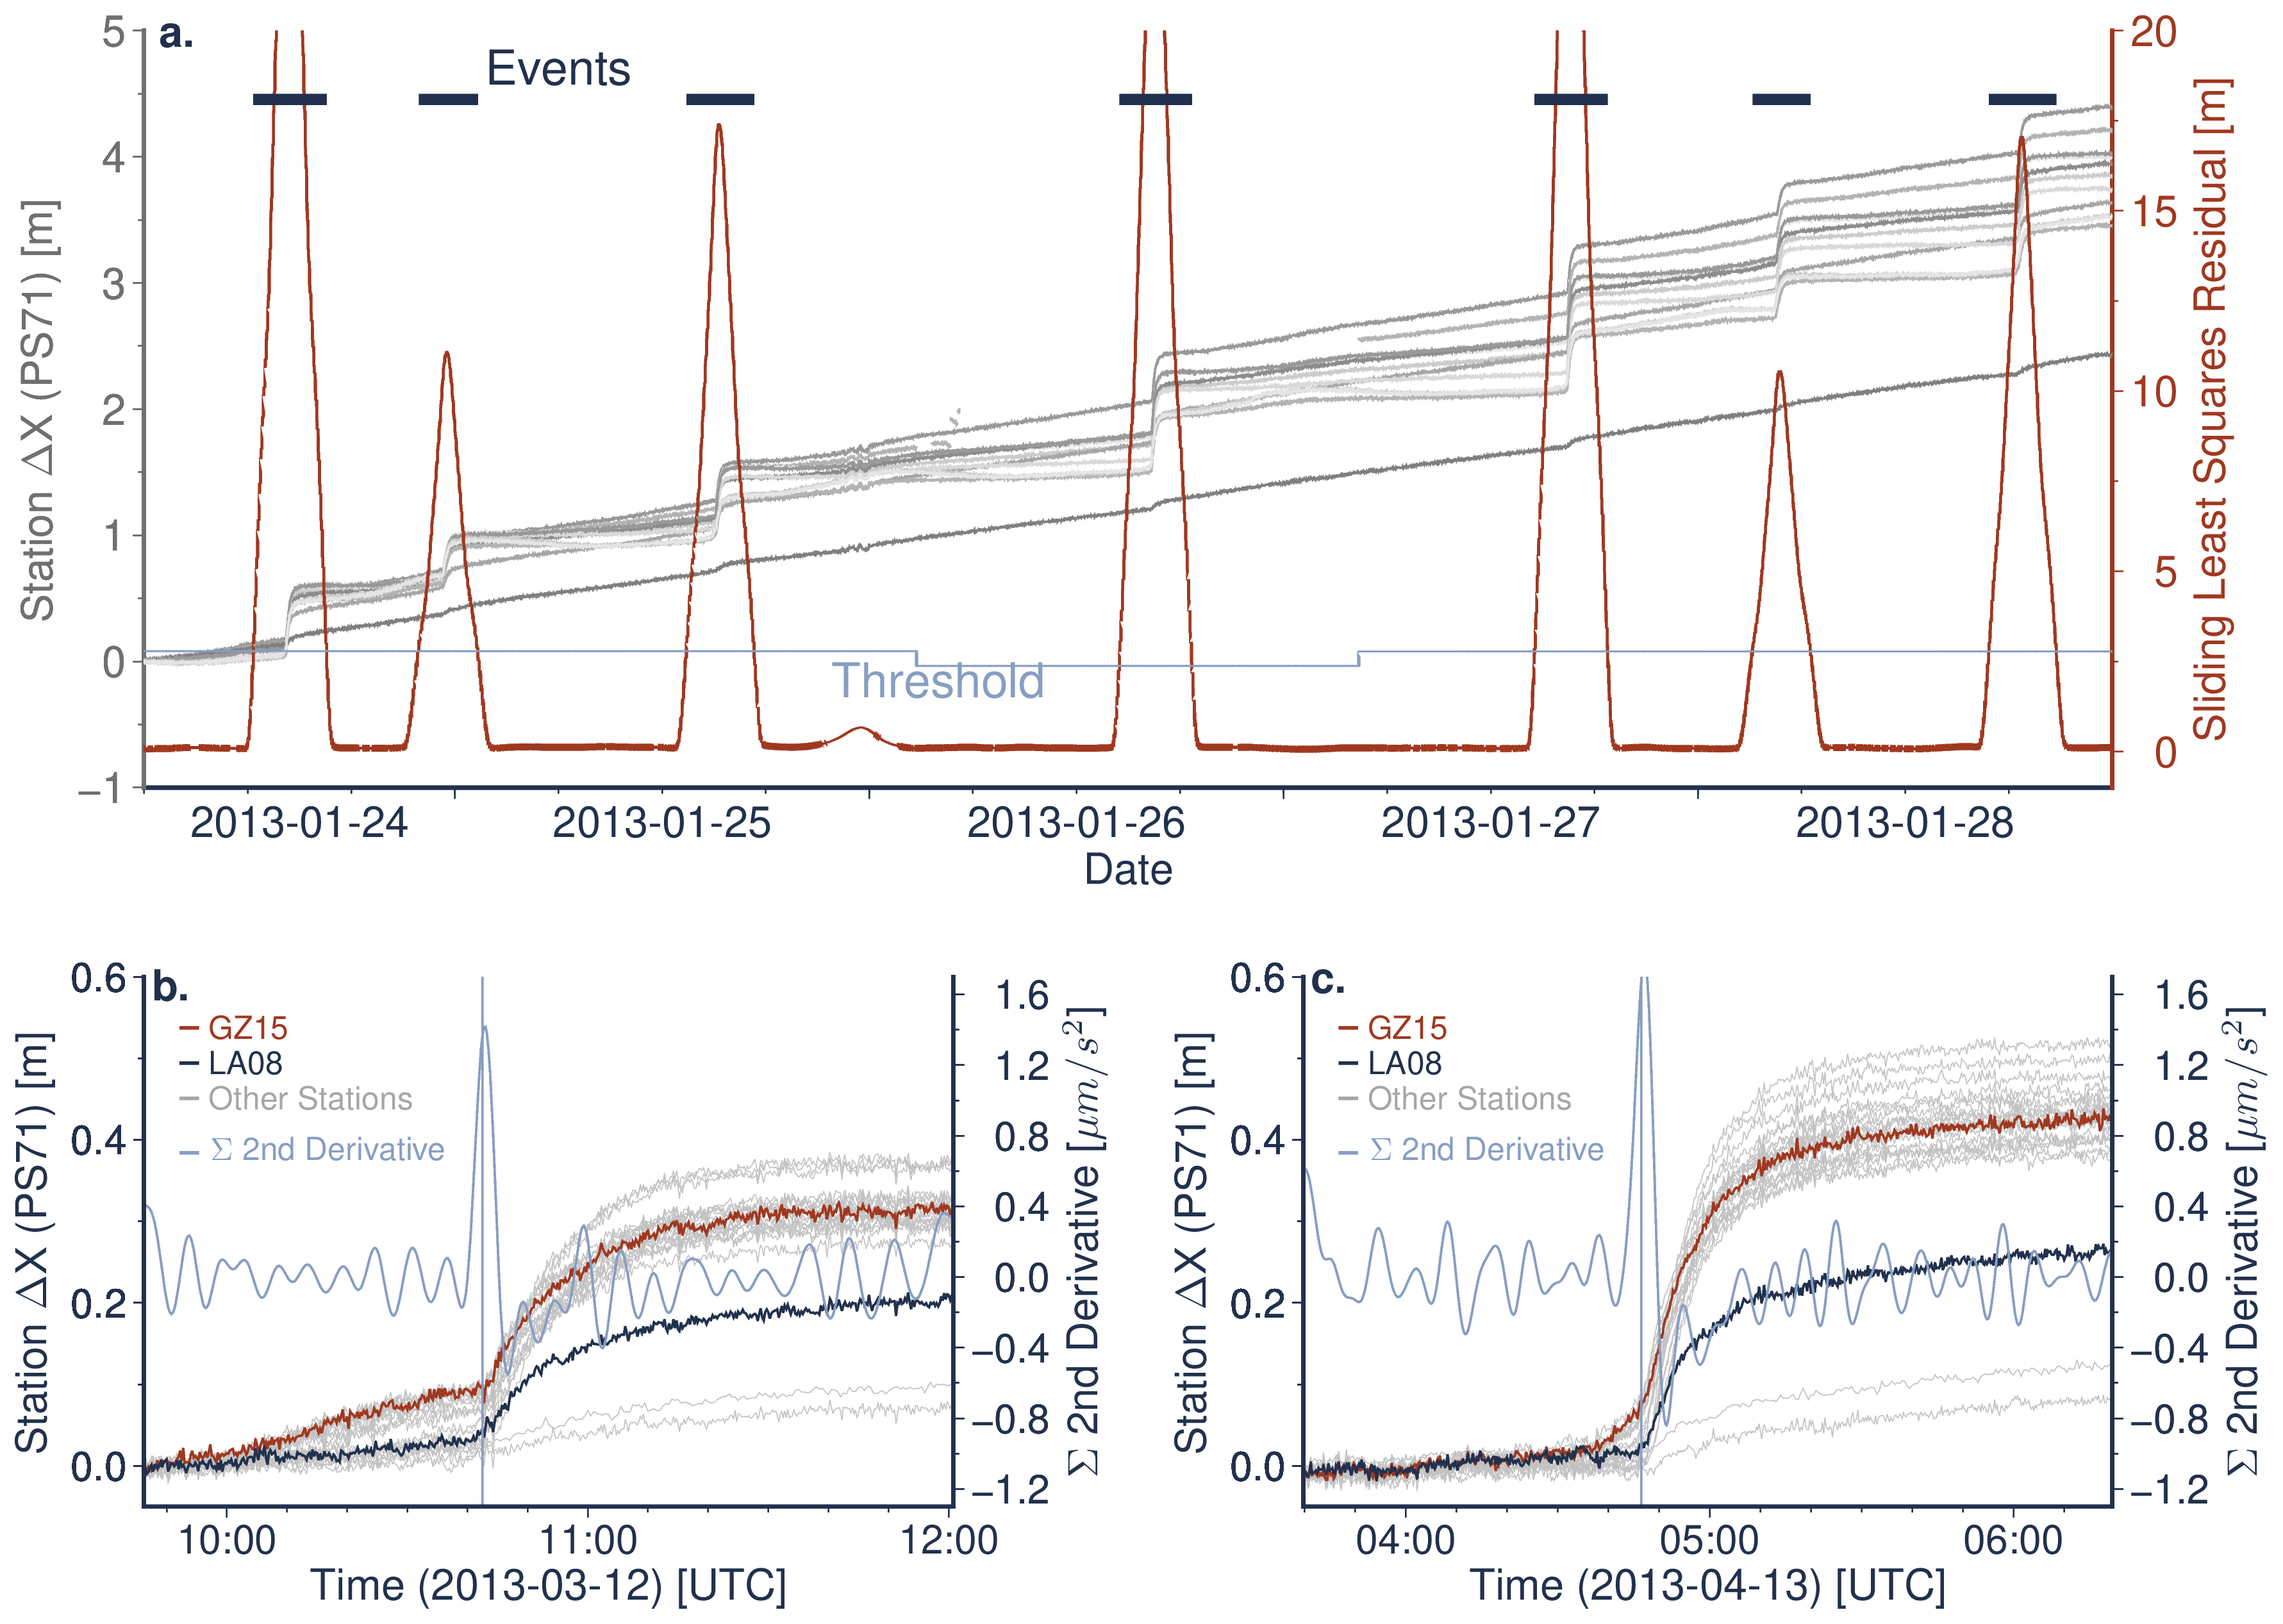
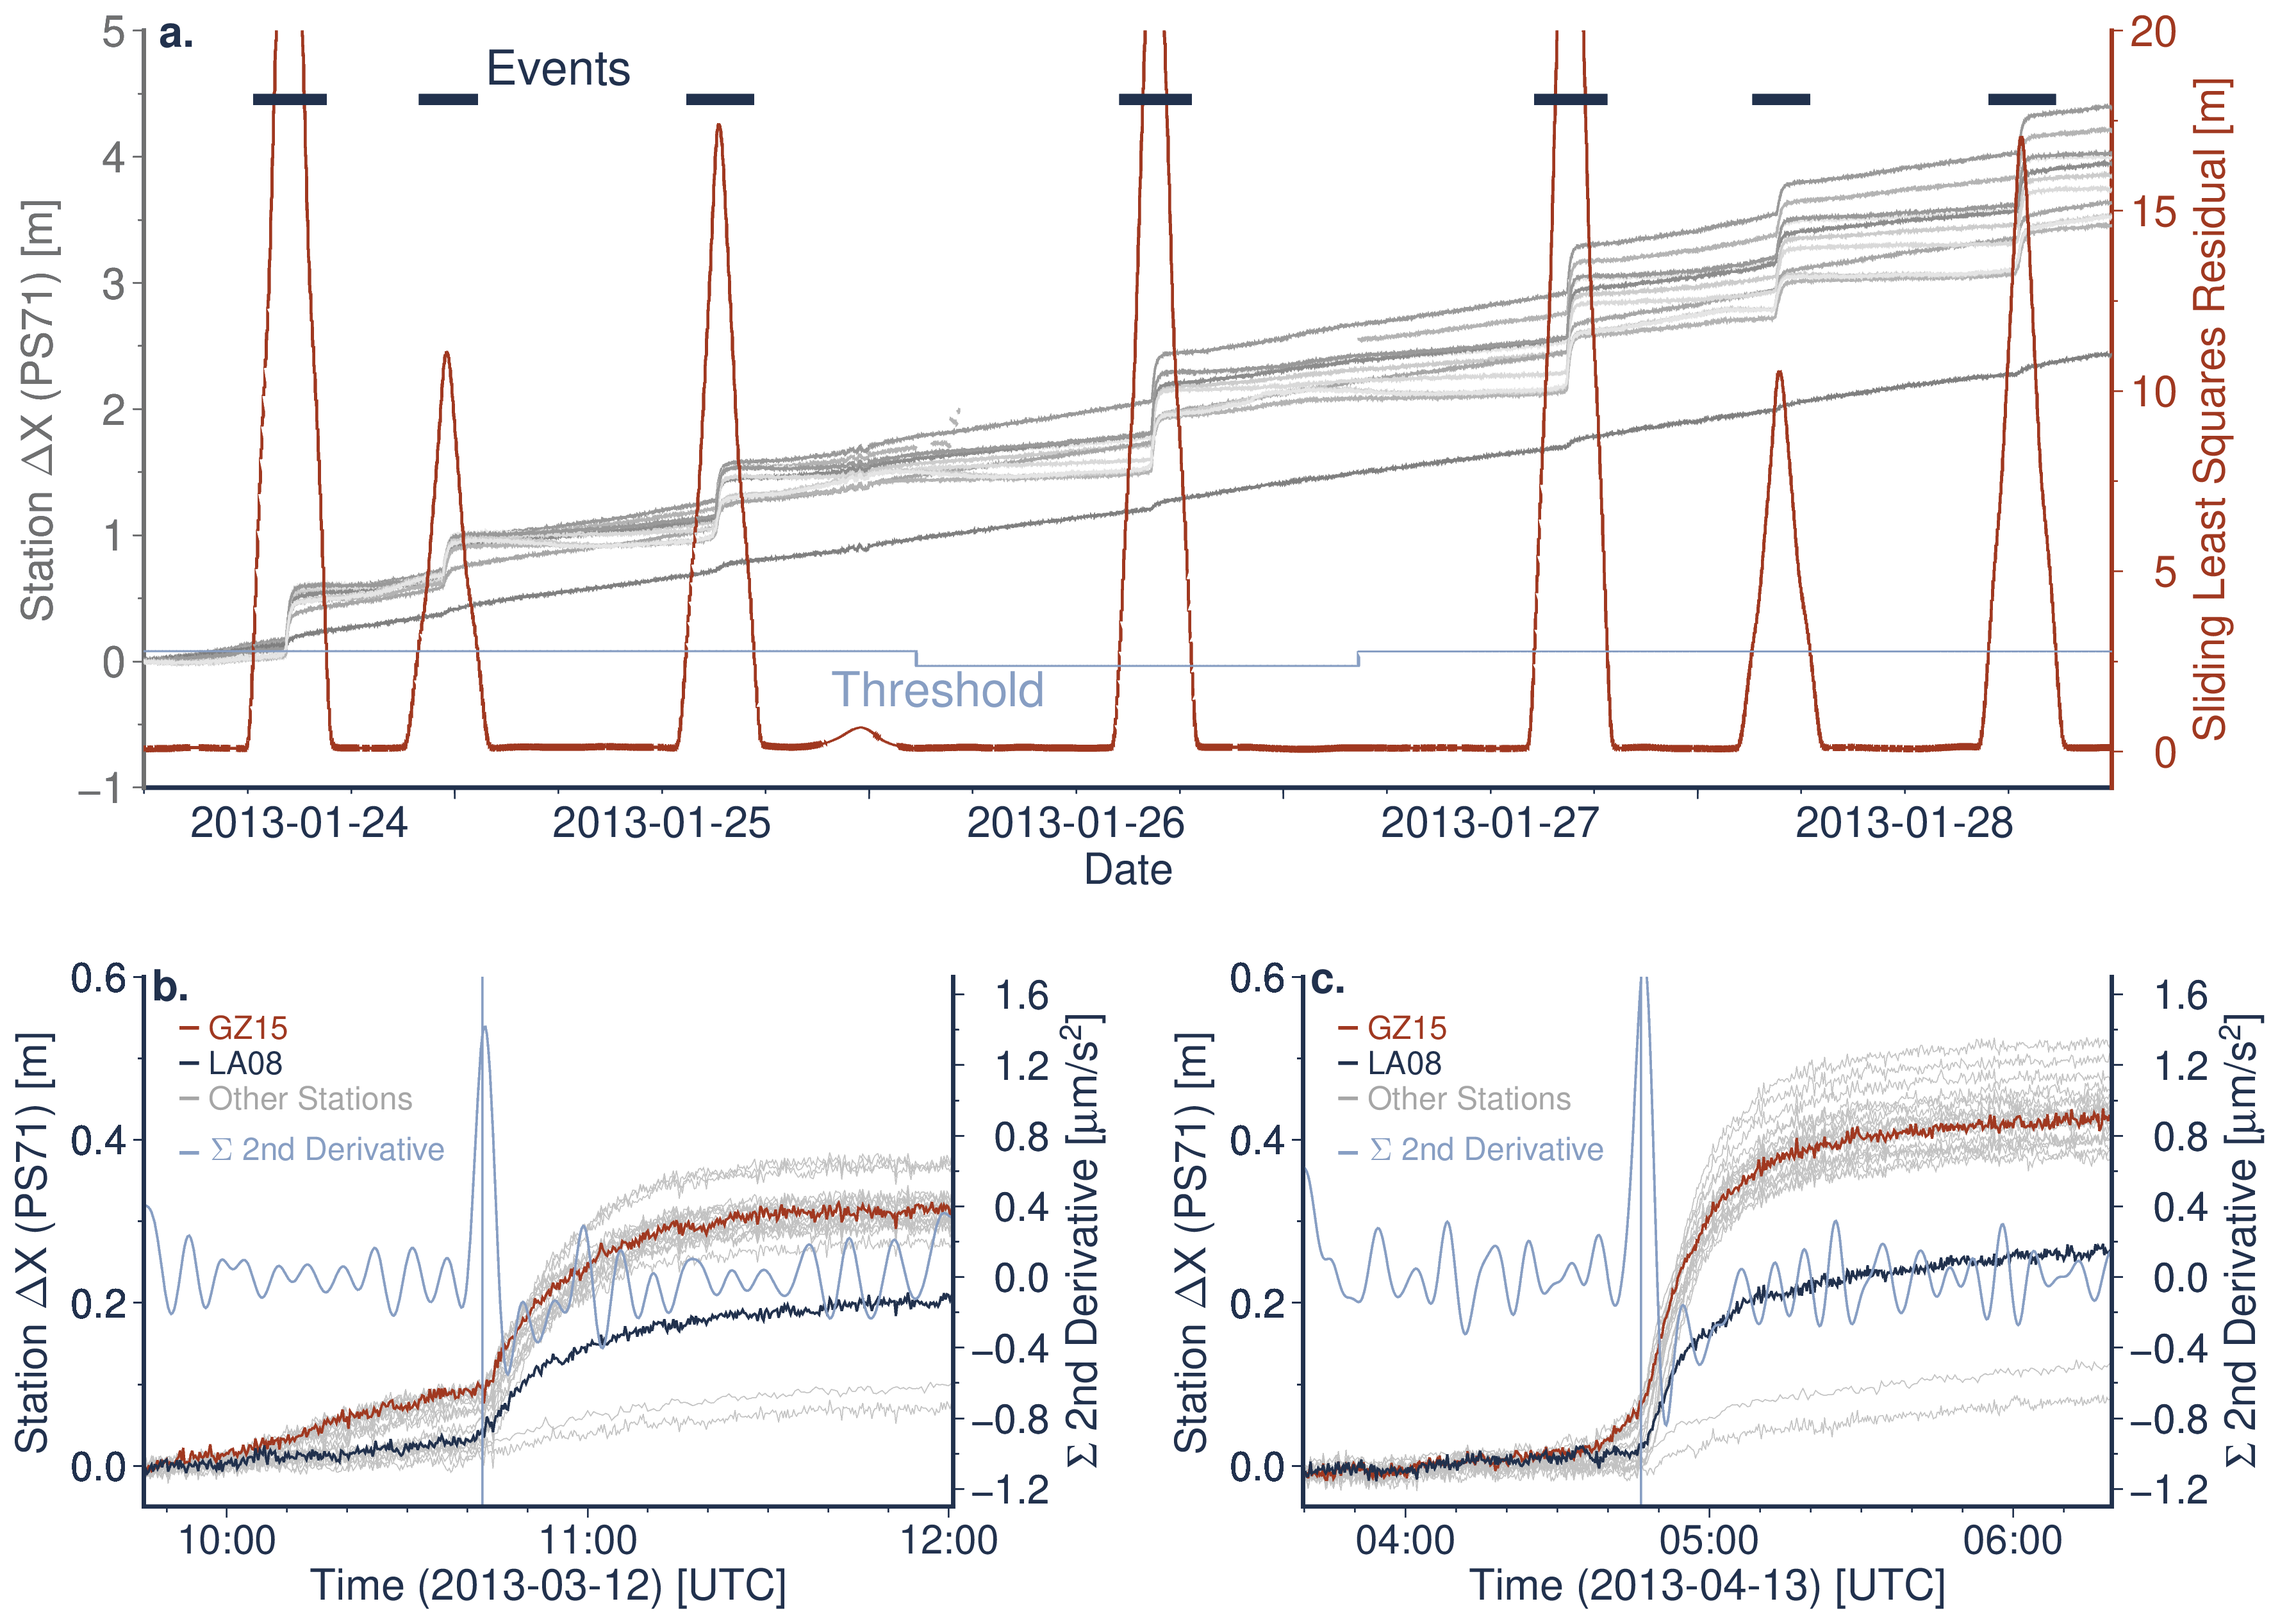
feat: Repositiory for published paper

diff --git a/README.md b/README.md
@@ -1,8 +1,7 @@
 # WhillansCatalogPaper
 
-Code used to process GNSS data and create figures in Katz, Siegfried, and Padman, 2025, currently in review. 
-> [!WARNING]  
-> This repository is still actively undergoing revisions in preparation for paper publication
+Code used to process GNSS data and create figures in  
+Katz, Z. S., Siegfried, M. R., & Padman, L. (2026). Slip-event timing and ice velocity vary at long-period ocean tidal frequencies at Whillans Ice Plain, West Antarctica. Journal of Geophysical Research: Earth Surface, 131, e2025JF008770. [https://doi.org/10.1029/2025JF008770] 
 
 ## Requirements
 [Conda](https://www.anaconda.com/docs/getting-started/miniconda/install)
@@ -56,13 +55,13 @@ from [Siegfried et al., 2016](https://doi.org/10.1002/2016GL067758)
 6. Use the CatalogViewer.ipynb utility to view specific events
 
 ## Notes
-1. GNSS RINEX data for stations SLW1, WS04, and WS05 are available at [Zenodo](https://doi.org/10.5281/zenodo.15412745). RINEX data for all other stations
+1. GNSS RINEX data for stations SLW1, WS04, and WS05 are available at [Zenodo](https://doi.org/10.5281/zenodo.15412745). RINEX data for all other stations is available at [EarthScope](https://www.unavco.org/data/doi/10.7283/YGE1-EF68)
 2. Pre-run .evt files made from WhillansCatalog.ipynb, are also available on [Zenodo](https://doi.org/10.5281/zenodo.15032116).
 3. If you have questions, please leave a GitHub issue or email me.
 
 ## Citation
 If you use code from this repository, please cite both the publication and the code.
+
 If you use data from the linked [Zenodo](https://doi.org/10.5281/zenodo.15032116) repository, please cite both the publication and the data.
 
 ###Publication Citation Forthcoming
-
